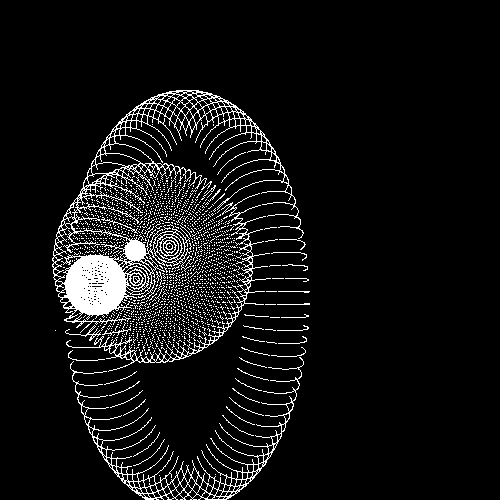
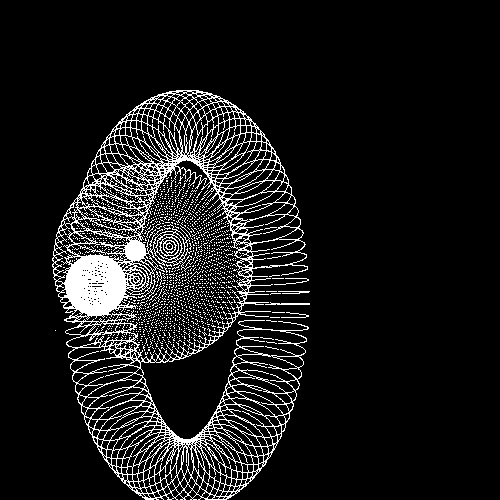
WOOOHOO :crown:

diff --git a/draw.c b/draw.c
@@ -132,8 +132,8 @@ void generate_torus( struct matrix * points,
 		     double cx, double cy, double r1, double r2, 
 		     double step ) {
   double p, q, x, y, z;
-  for (p = 0; p < 1; p += step){
-    for (q = 0; q < 1; q += step){
+  for (p = 0; p < 2; p += step){
+    for (q = 0; q < 2; q += step){
       x = r1*cos(M_PI*q) + cx;
       y = cos(2*M_PI*p) * (r1*sin(M_PI*q) + r2);//r*sin(M_PI*q)*cos(2*M_PI*p) + cy;
       z = sin(2*M_PI*p) * (r1*sin(M_PI*q) + r2);//r*sin(M_PI*q)*sin(2*M_PI*p);

diff --git a/README.md b/README.md
@@ -1,0 +1,4 @@
+# my_3d :key:
+yayayayay
+discovering emojis in commit messages is my new FAVORITE THING
+THANK YOU INTERNET :raised_hands:
